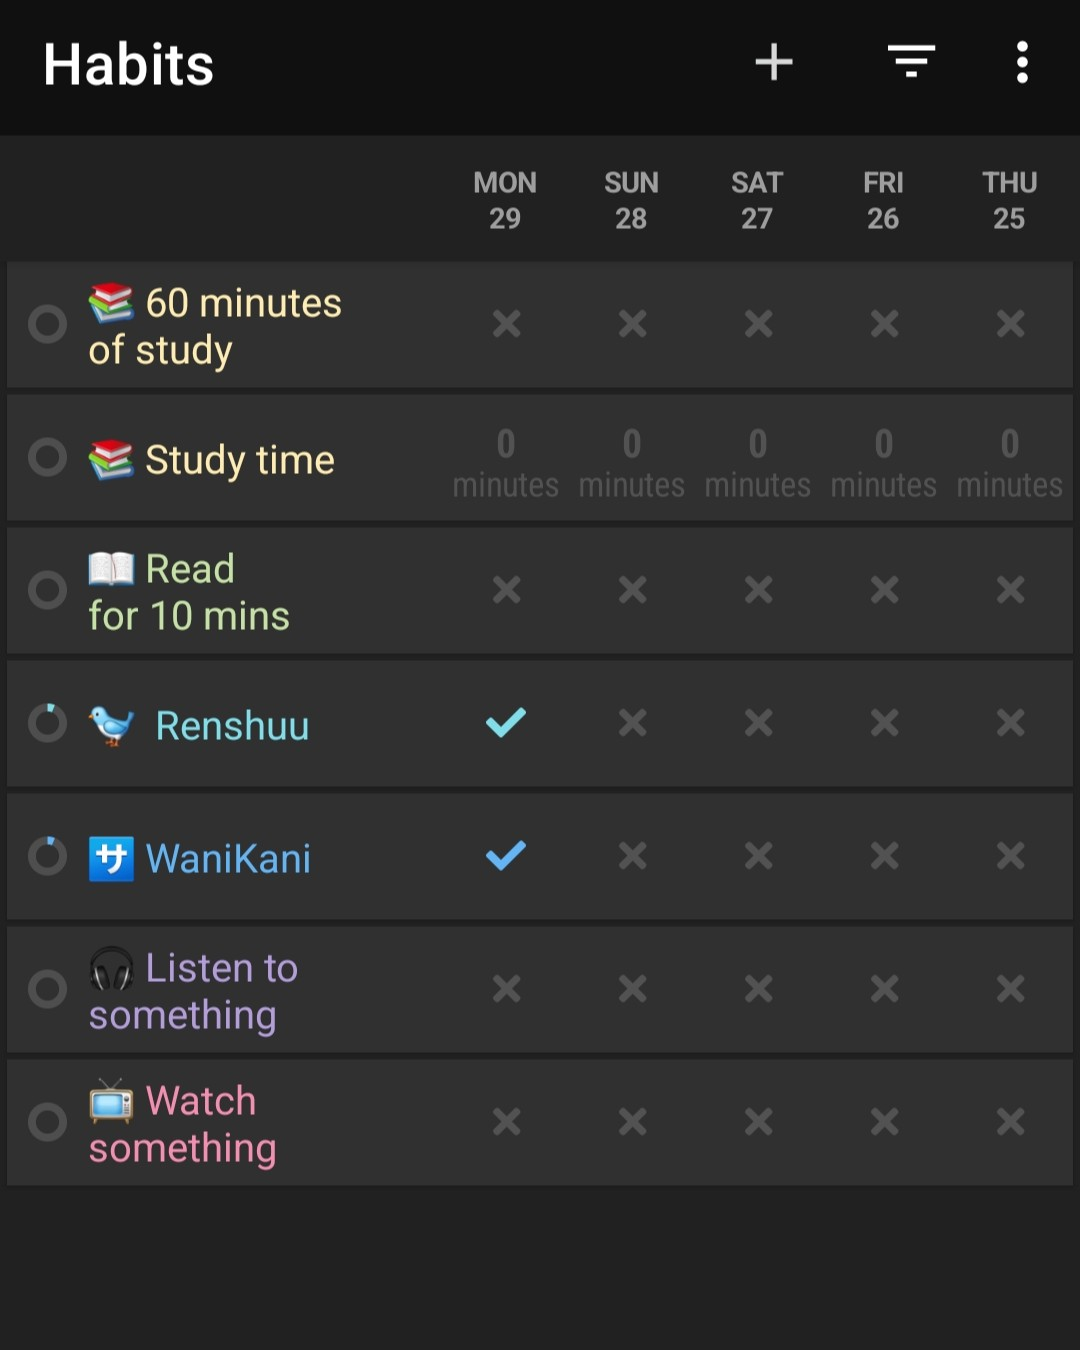
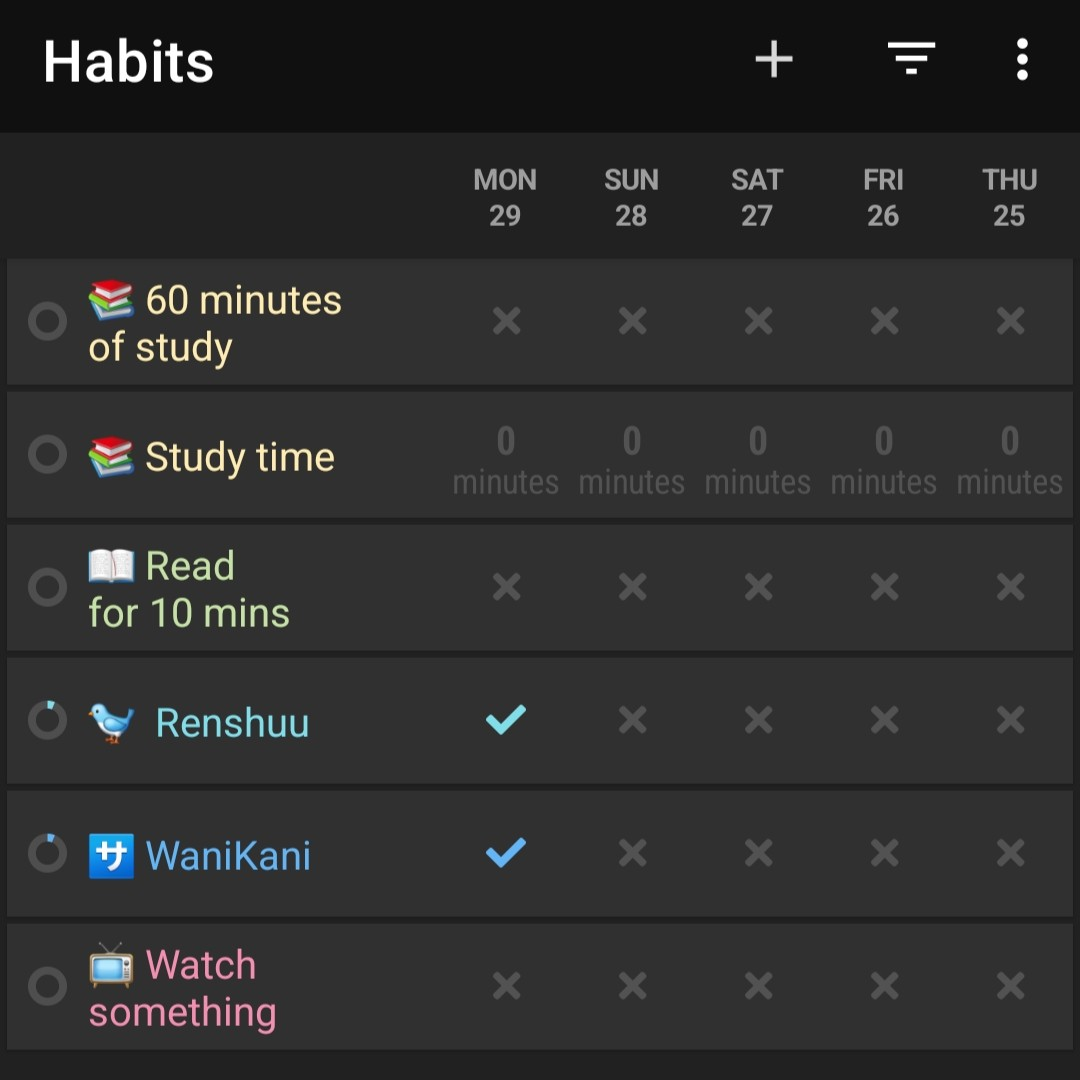
Update 75 fluent to remove listening

diff --git a/src/content/posts/japanese/75 fluent Japanese challenge.md b/src/content/posts/japanese/75 fluent Japanese challenge.md
@@ -1,7 +1,7 @@
 ---
 title: 75 fluent Japanese challenge
 published: 2026-06-29T04:15:35.073Z
-description: 'An overview of what this challenge is about, and how I’m approaching it.'
+description: 'An overview of the challenge, and how I’m approaching it.'
 updated: ''
 tags:
   - Japanese
@@ -38,21 +38,19 @@ The challenge is pretty straightforward. It consists of 6 daily tasks you need t
 6. Track your study
 
 ## Revised rules of 75 fluent
-The original rules of the challenge don’t work for me because I’m not yet producing anything in Japanese. I’m still in the early stages of my study—consuming content, building my vocabulary, and familiarizing myself with grammar points.
+The original rules of the challenge don’t work for me because I’m not producing anything in Japanese yet. I’m still in the early stages of my study—consuming content, building my vocabulary, and familiarizing myself with grammar points.
 
 So, I decided to tweak the rules to make it work for my needs:
 
 1. 60-minute language study
 2. <span style="color: oklch(0.58 0.09 150); font-weight: 700;">Read for 10 minutes</span>
 3. Watch something
-4. <span style="color: oklch(0.58 0.09 150); font-weight: 700;">Listen to something for 15 mins</span>
-5. <span style="color: oklch(0.58 0.09 150); font-weight: 700;">Renshuu</span>
-6. <span style="color: oklch(0.58 0.09 150); font-weight: 700;">WaniKani</span>
-7. Track your study
+4. <span style="color: oklch(0.58 0.09 150); font-weight: 700;">Renshuu</span>
+5. <span style="color: oklch(0.58 0.09 150); font-weight: 700;">WaniKani</span>
+6. Track your study
 
 ### Changes I made
-- I’m not reading books yet, so I updated “Read 5 pages” to “Read for 10 minutes”. It makes perfect sense for my situation since I use various apps to read basic stuff in Japanese.
-- I added “Listen to something for 15 mins” just because I’m trying to listen to as much Japanese as possible, be it actively or passively. The indicated time is the bare minimum; I’ll likely exceed the 15 minutes most days.
+- I’m not ready to read books yet, so I updated “Read 5 pages” to “Read for 10 minutes”. It makes perfect sense for my situation since I use various apps to read stuff in Japanese.
 - I added “Renshuu” and “WaniKani” because they’re currently my main resources for active study. But since I took a break from Japanese for several weeks, my backlog is still… massive. So, right now, my priority is to just catch up on my reviews. I don’t want to be too strict with myself on how many words or how much time I should study per day.
 
 ## How I’m tracking my studies
@@ -65,7 +63,7 @@ I’m using an app called [Striving](https://play.google.com/store/apps/details?
 
 Meanwhile, I’m using [Loop Habit Tracker](https://loophabits.org/) to track the tasks I managed to do in a day.
 
-![I use this app to tick off what I did for a particular day. It also provides detailed stats.](../_images/75-fluent-01/75-fluent-3.jpg)
+![I use this app to tick off the daily tasks I did for a particular day. It also provides detailed stats, which you’ll see later on.](../_images/75-fluent-01/75-fluent-3.jpg)
 
 Both apps have premium options, but the free versions are good enough for my use case.
 